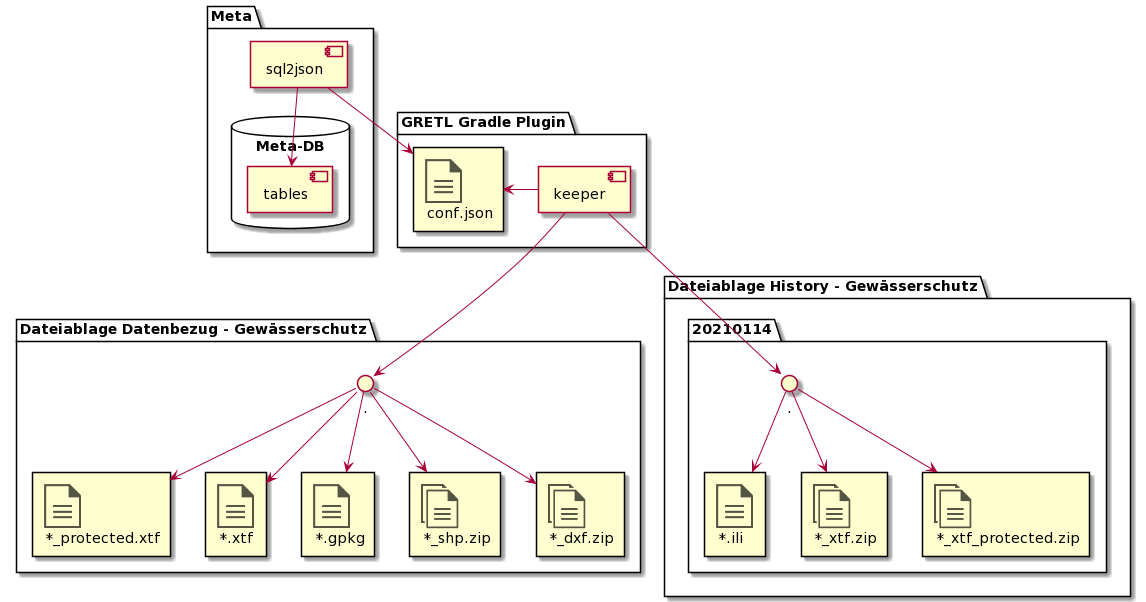
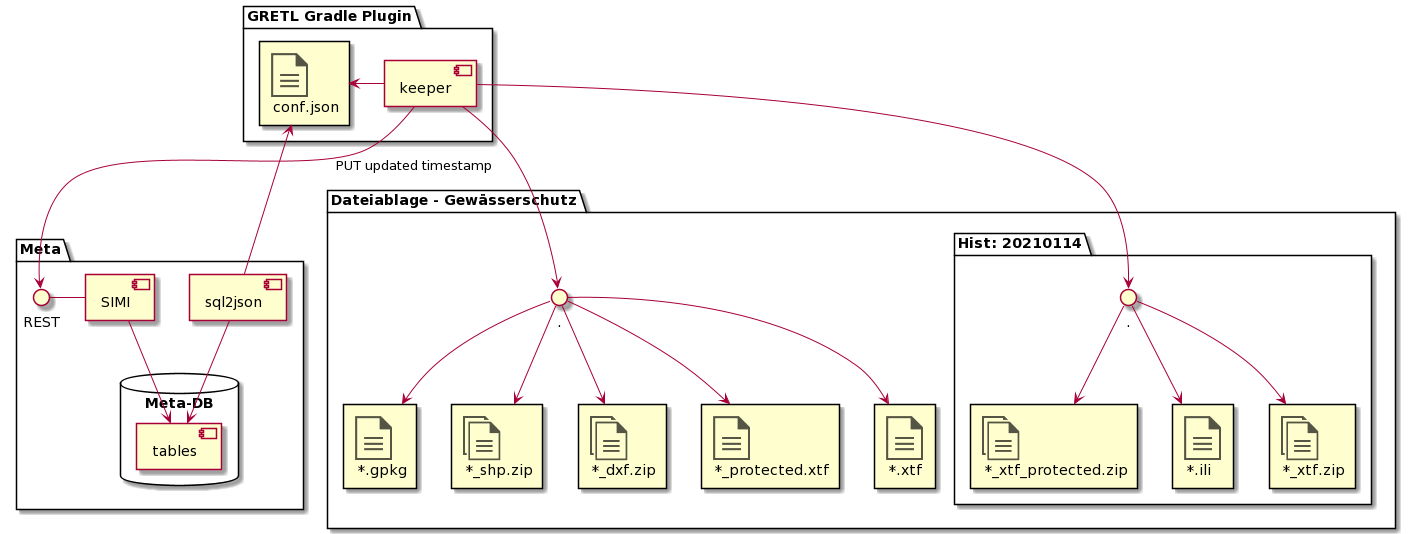
dok rc1

diff --git a/readme.md b/readme.md
@@ -3,9 +3,6 @@
 Folgend wird das Grobkonzept des SO!GIS 2.0 Umsetzungsprojektes "Datenbezug" beschrieben. Das Grobkonzept stellt
 neben dem erstellten PMP die wichtigste Grundlage für den Phasenübergang in die Konzeptphase dar.
 
-PMP:
-* Marketing (Opendata)
-
 ## Kundensicht
 
 "Kunden" des Datenbezugs sind sowohl Menschen wie auch Maschinen. Ob die Personen innerhalb oder ausserhalb der 
@@ -13,8 +10,8 @@ kantonalen Verwaltung arbeiten, ist nicht relevant und darf keinen Unterschied m
 
 ![uebersicht](res/overview.png)
 
-**Benutzer**: $td Beschreibung von ebp übertragen
-* **Anwender:** Kann ein GIS im Bereich der für sein Fachgebiet notwendigen Funktionen anwenden. Hat aber bezüglich
+**Benutzer**:
+* **Anwender:** Kann ein Desktop-GIS im Bereich der für sein Fachgebiet notwendigen Funktionen anwenden. Hat aber bezüglich
   Geodatenformaten und Modellen kein fundiertes Wissen.
 * **Experte:** Verfügt über fundiertes Wissen bezüglich Geodaten - Verwendet diese Beispielsweise als Inputs
   in eigenen automatisierten Datenverarbeitungsprozessen.
@@ -34,11 +31,12 @@ kantonalen Verwaltung arbeiten, ist nicht relevant und darf keinen Unterschied m
 
 ## Komponentendiagramme
 * [Neue Komponenten der GRETL Publikations-Jobs](gretl_pub.md)
+* [Komponenten rund um die Webapplikation "Datenbezug"](bezug.md)
 
 ## Glossar
 
 * **Datensatz:** Menge an Datendateien, in welchen die Geodaten eines Themas vollständig enthalten sind. Bei Vektordaten
-  sind dies alle in **einem** INTERLIS-Modell beschriebenen Daten.
+  sind dies alle in **genau einem** INTERLIS-Modell beschriebenen Daten.
 * **Datenthema:** Siehe Thema.
 * **Modell:** = INTERLIS-Modell.
 * **Thema:** Fachthematisch eng gefasste Gruppe von Informationen. Ein Thema ist in **genau einem** Modell beschrieben
@@ -68,6 +66,7 @@ kantonalen Verwaltung arbeiten, ist nicht relevant und darf keinen Unterschied m
   geeigneten Form nun gemacht werden? Beispielsweise indem immer ein Group- oder Facadelayer existiert, welcher das
   Datenthema repräsentiert?
 * Ist es sinnvoll, den Katalog neben Json auch in INTERLIS-XML Form bereitzustellen? Aufwand / Ertrag?
+* Andere Kantone machen eine grosse Sache von wegen OGD - was machen wir da kommunikativ?
 * Bezüglich Dateiablage (AIO)
   * Zugriffsschutz: Wie wird dieser über alle Kanäle umgesetzt (http / ftp)? Die Informationen dazu sind vorhanden und
     können via catalog.json konsumiert werden.
@@ -75,27 +74,35 @@ kantonalen Verwaltung arbeiten, ist nicht relevant und darf keinen Unterschied m
     * Ordner umbenennen?
     * "Virtuelle" Verzeichnisse (Pointer)?
   * Welche Technologie kommt sinnvollerweise für sicheren FTP zum Einsatz? sFTP oder FTPs?
+  * Ueber welches Protokoll kann/soll der keeper die Kopieraktionen in der Dateiablage auslösen? (s)FTP(s)?
+* In welchem Umfang wird das Archiv ebenfalls in die Benutzeroberfläche des Datenbezugs integriert?
+* Welche Parameter übergibt der WGC dem Datenbezug via URL.
+* Wie werden die nur für eine kleine Benutzergruppe interessanten Edit-Daten in der Datenbezug-Webapp angeboten?
+* Eignet sich das "out of the box" REST-API von SIMI für die Aktualisierung mit dem "updated" timestamp, oder 
+  muss/soll (mit wenig code) ein spezifischer Endpunkt geschrieben werden?
   
 ## Entscheide
 
-* **Geschützte Attribute:** Diese werden in SIMI (und nicht mittels Annotation im Modell) geführt. Grund: Die Zugriffs-
-  Definition erfolgt über DataSetView, Rollen, Gruppen und Benutzer. Diese liegen alle in SIMI "integer und ganzheitlich" vor.
+* **Geschützte Attribute:** Diese werden in SIMI (und nicht mittels Annotation im Modell) geführt. Grund: Die 
+  Zugriffsdefinition erfolgt über DataSetView, Rollen, Gruppen und Benutzer. Diese liegen alle in SIMI "integer und ganzheitlich" vor.
   Das Nutzen der Annotations würde ein Verteilen der Master-Daten bedingen, mit Verlust der Unterstützung der 
   wichtigen referenziellen Integrität, welche uns die SIMI-DB "schenkt".  
 * **Langzeit-Archiv:** Die zusammen mit dem Staatsarchiv zu lösende Frage der Langzeitarchivierung ist "out of scope".
   In scope ist hingegen die Umsetzung der Empfehlungen, wie die Daten und Metadaten für die Langzeitarchivierung
-  packetiert werden sollen (--> Siehe Resultate des Projektes ellipse des Bundes. Aktuellsten Stand telefonisch nachfragen).
+  packetiert werden sollen.    
+  (--> Siehe Resultate des Projektes ellipse des Bundes. Aktuellsten Stand telefonisch nachfragen).
 * **STAC-API:** Das STAC-API ist ein interessanter Ansatz für die Bereitstellung von Datendateien. Von den für das API
   notwendigen Informationen passt es gut zum Datenbezug, verwendet jedoch beispielsweise das in der Schweiz für "offizielle"
   Geodaten wenig gebräuchliche Koordinatensystem WGS84. Fazit: Out of Scope - in Folgeprojekt umsetzen, falls sich STAC
   als Standard durchsetzt.
-* **Mehrfach download:** Dieser absehbare Kundenwunsch beisst sich leider sehr mit den HTTP / Browser Limitationen.
+* **Mehrfach download:** Dieser absehbare Kundenwunsch beisst sich sehr mit den HTTP / Browser Limitationen.
   --> Leider "out of scope". Abhängig von den Kundenfeedbacks nach mehreren Monaten Betrieb Lösung suchen. Ansätze:
   * https://github.com/sindresorhus/multi-download
   * https://stackoverflow.com/questions/7064998/how-to-make-a-link-open-multiple-pages-when-clicked
-* **Geocat:** Die Geocat-Anbindung wird sinnvollerweise in einem eigenständigen Projekt angegangen. Die sinnvolle
-  Anbindung mittels INTERLIS ist unsere Kernkompetenz. Die dafür notwendigen Komponenten existieren mit GRETL und 
-  ili2pg schon lange. --> Projekt wird in unsere Projekt-Queue aufgenommen. Dieses Projekt würde sich auch hervorragend
+* **Geocat:** Die Geocat-Anbindung wird sinnvollerweise in einem eigenständigen Projekt angegangen. Die Anbindung
+  mittels INTERLIS ist unsere Kernkompetenz. Die dafür notwendigen Komponenten existieren mit GRETL und 
+  ili2pg schon lange.   
+  --> Projekt wird in unsere Projekt-Queue aufgenommen. Dieses Projekt würde sich auch hervorragend
   eignen für die Erarbeitung durch einen Projektleiter ausserhalb des AGI (--> AIO oder Extern).
   
   
